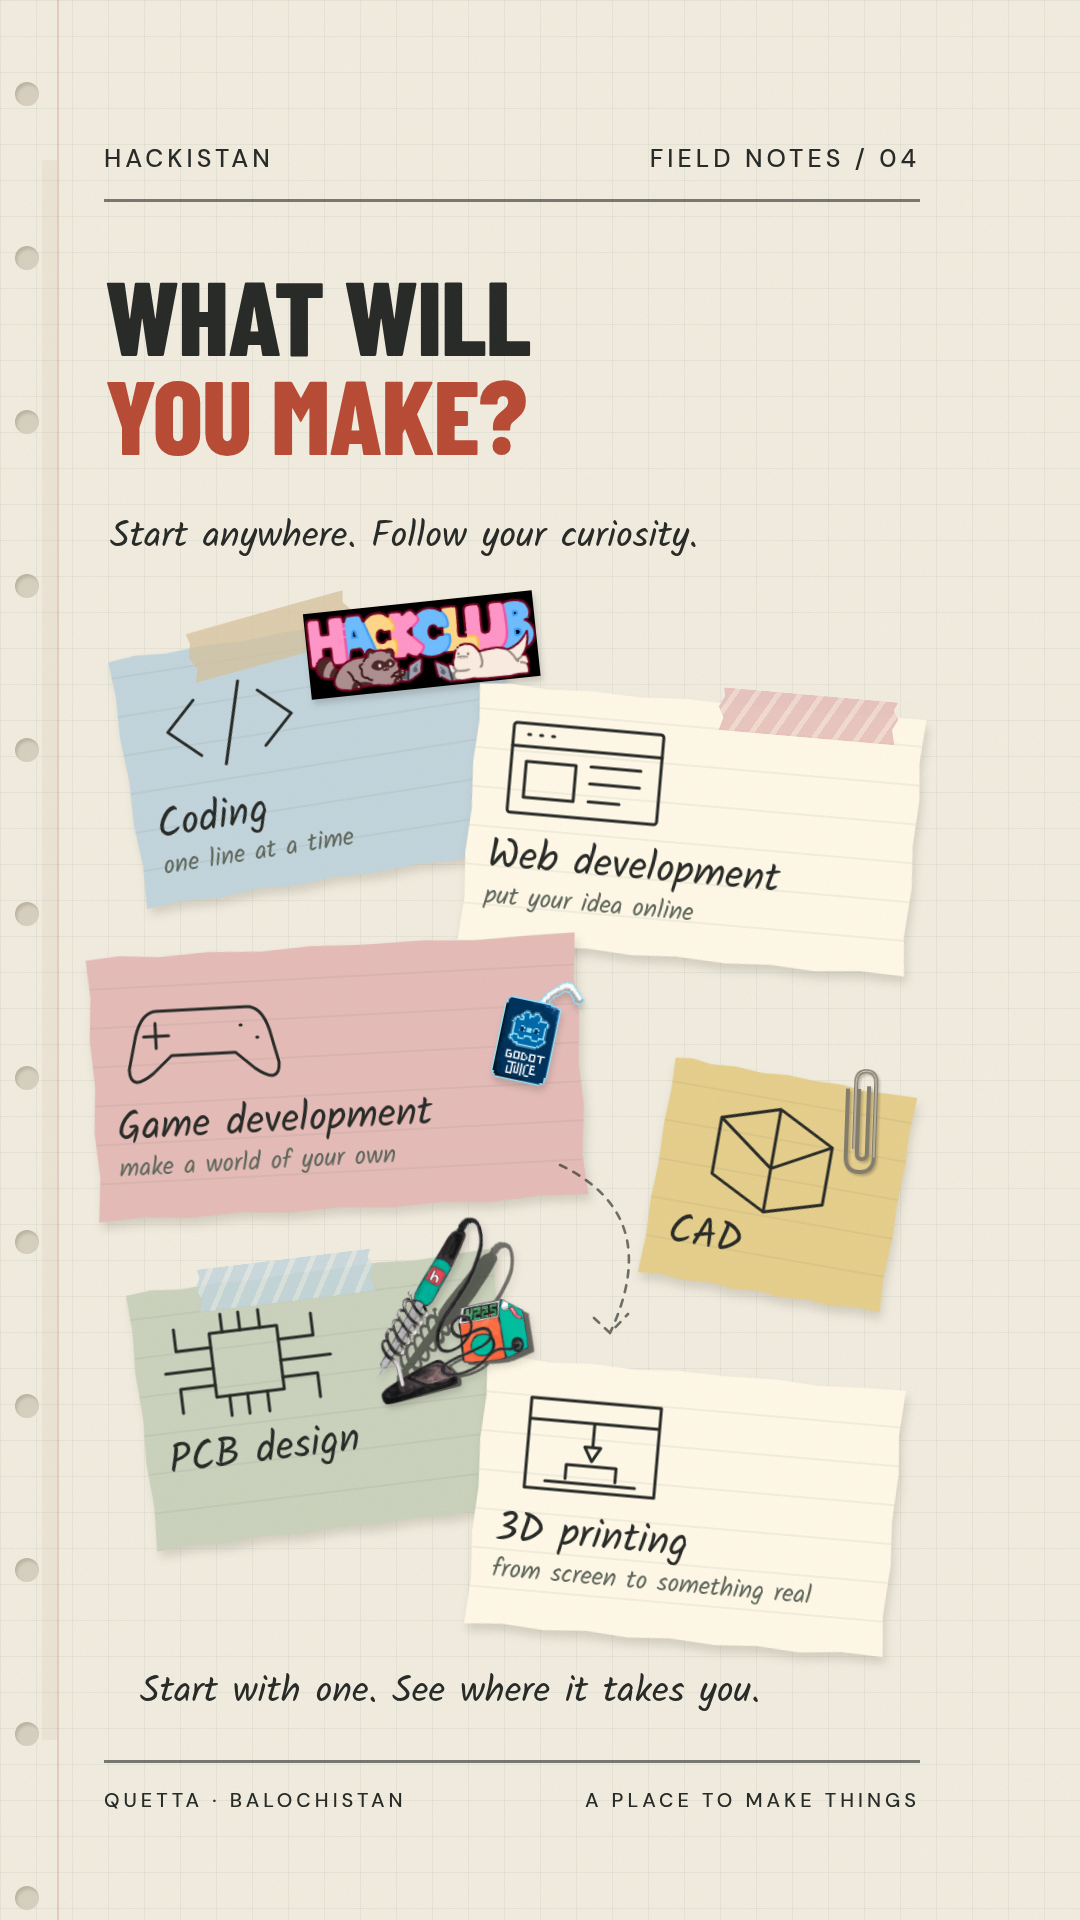
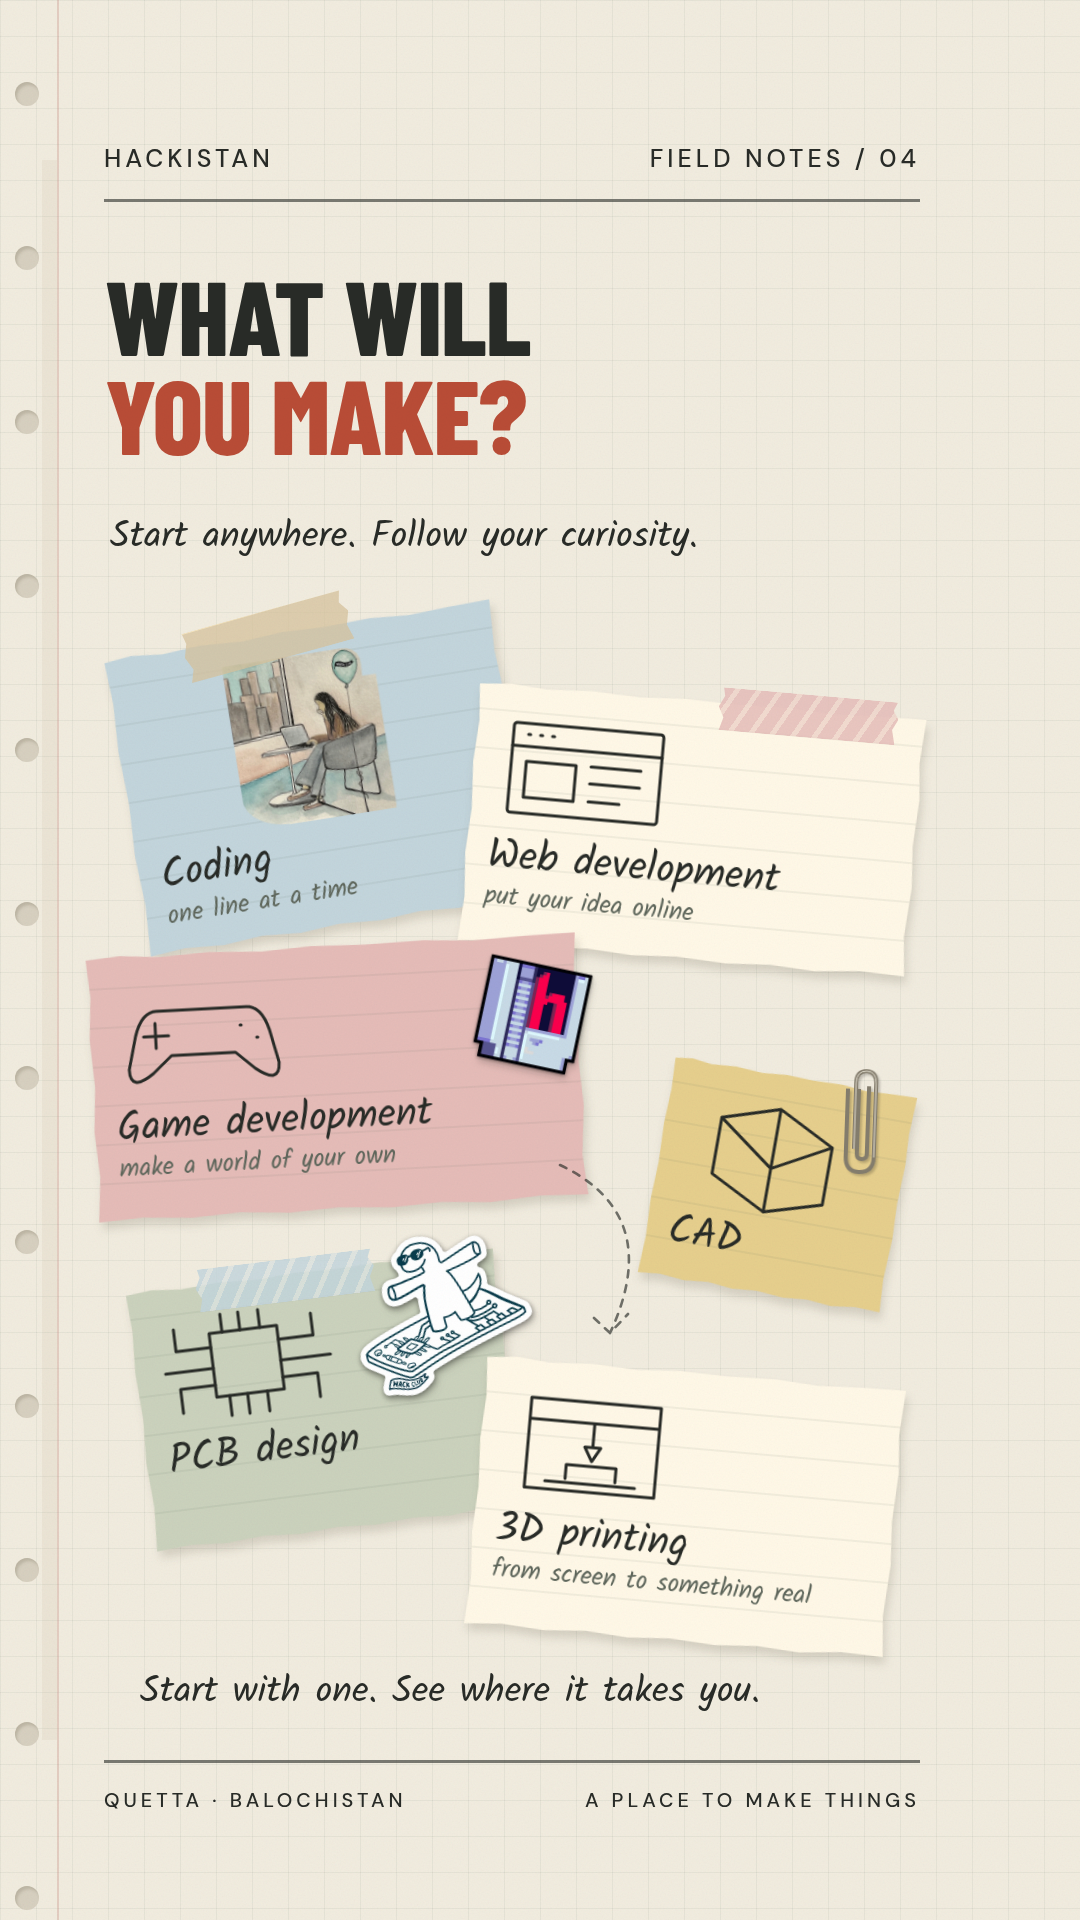
Integrate four uploaded stickers into Phase A storyboard

diff --git a/video/src/scenes.tsx b/video/src/scenes.tsx
@@ -42,21 +42,21 @@ export const Projects=()=> <NotebookPage n={3}>
 <Box x={155} y={1690}><Hand size={35} color={red}>Built by teenagers in Quetta.</Hand></Box>
 </NotebookPage>;
 
-const Idea=({kind,title,note,color=colors.ivory,height=250}:{kind:number;title:string;note?:string;color?:string;height?:number})=><Scrap color={color} pattern="ruled" height={height} style={{padding:23}}><Sketch kind={kind}/><Hand size={40}>{title}</Hand>{note?<Hand size={25} color="#5e665b">{note}</Hand>:null}</Scrap>;
+const Idea=({kind,title,note,color=colors.ivory,height=250,asset}:{kind:number;title:string;note?:string;color?:string;height?:number;asset?:string})=><Scrap color={color} pattern="ruled" height={height} style={{padding:23}}>{asset?<AssetSlot asset={asset} label={title} height={170}/>:<Sketch kind={kind}/>}<Hand size={40}>{title}</Hand>{note?<Hand size={25} color="#5e665b">{note}</Hand>:null}</Scrap>;
 export const Create=()=> <NotebookPage n={4}>
 <Box x={105} y={265}><div className="display" style={{fontSize:105}}>WHAT WILL<br/><span style={{color:red}}>YOU MAKE?</span></div></Box>
 
 <Box x={110} y={515}><Hand size={37}>Start anywhere. Follow your curiosity.</Hand></Box>
 
-<Box x={125} y={628} w={390} rotate={-9}><Idea kind={0} title="Coding" note="one line at a time" color={colors.blue} height={252}/><Tape x={80}/></Box>
-<Box x={307} y={600} w={230} rotate={-6}><Sticker asset="laptops" label="Orpheus and Heidi Laptops" height={90}/></Box>
+<Box x={125} y={628} w={390} rotate={-9}><Idea kind={0} title="Coding" note="one line at a time" color={colors.blue} height={300} asset="codingBalloon"/><Tape x={80}/></Box>
+
 <Box x={468} y={700} w={448} rotate={5}><Idea kind={1} title="Web development" note="put your idea online" height={260}/><Washi x={240} y={-15} color={colors.pink}/></Box>
 <Box x={92} y={945} w={490} rotate={-3}><Idea kind={2} title="Game development" note="make a world of your own" color={colors.pink} height={265}/></Box>
-<Box x={476} y={955} w={110} rotate={12}><Sticker asset="godot" label="Godot Juice" height={150}/></Box>
+<Box x={476} y={955} w={110} rotate={12}><Sticker asset="gameLab" label="Game Lab" height={120}/></Box>
 <Box x={655} y={1075} w={245} rotate={10}><Idea kind={3} title="CAD" color={colors.yellow} height={220}/><Box x={175} y={-25} rotate={-8}><Clip/></Box></Box>
 <Box x={140} y={1270} w={370} rotate={-7}><Idea kind={4} title="PCB design" color={sage} height={260}/><Washi x={70} y={-15} color={colors.blue}/></Box>
 <Box x={475} y={1372} w={420} rotate={5}><Idea kind={5} title="3D printing" note="from screen to something real" height={270}/></Box>
-<Box x={346} y={1220} w={190} rotate={-13}><Sticker asset="solder" label="Soldering" height={180}/></Box>
+<Box x={346} y={1220} w={190} rotate={-13}><Sticker asset="pcbSkate" label="Orpheus Skateboarding PCB" height={180}/></Box>
 
 <Box x={555} y={1160}><PencilRoute w={150} h={195} d="M5 5Q110 55 55 173m-16-15 16 15 18-19"/></Box>
 
@@ -67,7 +67,7 @@ export const Opportunities=()=> <NotebookPage n={5}>
 <Box x={100} y={259} w={825}><div className="display" style={{fontSize:96}}>SMALL STARTS.<br/><span style={{color:red}}>REAL POSSIBILITIES.</span></div></Box><Box x={104} y={460}><Underline width={400}/></Box>
 
 <Box x={102} y={552} w={720} rotate={-4}><Scrap pattern="ruled"><div className="label" style={{color:red,fontSize:23}}>AT HACKISTAN</div><Hand size={56}>Learn by doing.</Hand><div style={{fontSize:36,lineHeight:1.55}}><CheckItem checked>Hands-on workshops</CheckItem><CheckItem checked>Make things together</CheckItem><CheckItem>Your next project</CheckItem></div></Scrap><Tape x={50}/></Box>
-<Box x={742} y={660} w={175} rotate={6}><Sticker asset="journal" label="Journpheus" height={225}/></Box>
+<Box x={742} y={660} w={175} rotate={6}><Sticker asset="construct" label="Construct Orpheus" height={225}/></Box>
 
 
 

diff --git a/video/src/config.ts b/video/src/config.ts
@@ -21,5 +21,9 @@ export const assets: Record<string,string|null> = {
  journal:'assets/stickers/Journpheus.webp',
  laptops:'assets/stickers/Orpheus and Heidi Laptops.webp',
  nest:'assets/stickers/Nest Hatched Smolpheus.webp',
+ codingBalloon:'assets/stickers/Coding with Balloon.webp',
+ gameLab:'assets/stickers/Game Lab.webp',
+ pcbSkate:'assets/stickers/Orpheus Skateboarding PCB.webp',
+ construct:'assets/stickers/Construct Orpheus.webp',
  members:null,
 };

diff --git a/docs/STICKER_CURATION.md b/docs/STICKER_CURATION.md
@@ -1,16 +1,10 @@
-# Sticker curation — Revision 3
+# Sticker curation — Revision 4
 
 ## Acquisition status
 
-**14 selected options: 10 existing user-supplied originals, 4 pending acquisition, 0 newly downloaded files.** The review sheet is explicitly labeled with this status. No catalog screenshots, thumbnails, redrawn stickers or fabricated substitutes were used.
+**14 supplied artworks; no missing candidate files; 0 catalog downloads.** The four previously missing artworks were supplied by the user in the feature branch, present at upload commit `b088776`. Their original files are preserved under `public/assets/stickers/`. The candidate sheet and JSON now include all four images, dimensions, alpha metadata and SHA-256 hashes.
 
-The requested official catalog is https://stickers.hackclub.com/catalog. Fresh sandbox and executor requests returned cloud-proxy HTTP 403 (`CONNECT tunnel failed`) after the custom domain was saved in the environment draft and the user authorized access. The running environment status still reported an enforced policy with no custom host entries. Authorization is recorded; runtime propagation remains the blocker. No access restriction was bypassed.
-
-The publicly accessible [Hack Club StickersV1 README](https://github.com/hackclub/StickersV1/blob/main/README.md) identifies itself as a former official site implementation and documents the public `/api/stickers` endpoint. It points to `hackclub/stickers`, which returned repository-not-found during this inspection. No sticker image URL or artwork license could be verified through that source. No authentication credentials were requested or used.
-
-**Usage/permission note:** the user supplied the current artwork for this storyboard. That does not establish an artwork license for public distribution. Explicit reuse terms for the sticker illustrations have not been verified. Confirm applicable permission with Hack Club/artists before final publication; do not treat an application's source-code license as an artwork license. This flag applies to every candidate below.
-
-New official downloads belong in `public/assets/stickers/catalog/`. That folder currently contains only an explanatory README. Existing files remain in their original curated folders and have not been relabeled as downloads.
+The previous catalog-access blocker no longer prevents this storyboard update because the user supplied the files. These are not represented as agent downloads or independently verified catalog originals. Artwork reuse terms remain unverified; confirm applicable permission before final public release.
 
 ## Candidates
 
@@ -20,29 +14,21 @@ New official downloads belong in `public/assets/stickers/catalog/`. That folder 
 | Godot Juice | [Godot Juice.webp](../public/assets/stickers/Godot%20Juice.webp) · [original user upload](https://github.com/WockoPayaz/hackistan-intro-reel/blob/07f7dec/public/assets/Godot%20Juice.webp) | 03 / 04 · games | user-supplied; catalog verification pending |
 | Boba Drops | [Boba Drops.webp](../public/assets/stickers/Boba%20Drops.webp) · [original user upload](https://github.com/WockoPayaz/hackistan-intro-reel/blob/07f7dec/public/assets/Boba%20Drops.webp) | 03 · website | user-supplied; catalog verification pending |
 | Soldering | [Soldering.webp](../public/assets/stickers/Soldering.webp) · [original user upload](https://github.com/WockoPayaz/hackistan-intro-reel/blob/07f7dec/public/assets/Soldering.webp) | 04 · electronics | user-supplied; catalog verification pending |
-| Orpheus Skateboarding PCB | [Official catalog](https://stickers.hackclub.com/catalog); exact asset URL unverified | 04 · PCB alternative | awaiting catalog access or manual download |
-| Construct Orpheus | [Official catalog](https://stickers.hackclub.com/catalog); exact asset URL unverified | 04 · physical making | awaiting catalog access or manual download |
+| Orpheus Skateboarding PCB | [Orpheus Skateboarding PCB.webp](../public/assets/stickers/Orpheus%20Skateboarding%20PCB.webp) · [user upload](https://github.com/WockoPayaz/hackistan-intro-reel/blob/b088776/public/assets/stickers/Orpheus%20Skateboarding%20PCB.webp) | 04 · PCB design | supplied; integrated |
+| Construct Orpheus | [Construct Orpheus.webp](../public/assets/stickers/Construct%20Orpheus.webp) · [user upload](https://github.com/WockoPayaz/hackistan-intro-reel/blob/b088776/public/assets/stickers/Construct%20Orpheus.webp) | 05 · hands-on workshops | supplied; integrated |
 | Journpheus | [Journpheus.webp](../public/assets/stickers/Journpheus.webp) · [original user upload](https://github.com/WockoPayaz/hackistan-intro-reel/blob/07f7dec/public/assets/Journpheus.webp) | 05 · project notebook | user-supplied; catalog verification pending |
 | Ship | [ship.webp](../public/assets/stickers/ship.webp) · [original user upload](https://github.com/WockoPayaz/hackistan-intro-reel/blob/07f7dec/public/assets/ship.webp) | 05 · share checklist | user-supplied; catalog verification pending |
 | Orphmoji Yippee | [orphmoji yippee.webp](../public/assets/stickers/orphmoji%20yippee.webp) · [original user upload](https://github.com/WockoPayaz/hackistan-intro-reel/blob/07f7dec/public/assets/orphmoji%20yippee.webp) | 06 · familiar character | user-supplied; catalog verification pending |
 | Orpheus Flag | [flag-orpheus-left.png](../public/assets/stickers/flag-orpheus-left.png) · [original user upload](https://github.com/WockoPayaz/hackistan-intro-reel/blob/07f7dec/public/assets/flag-orpheus-left.png) | 02 · flag alternative | user-supplied; catalog verification pending |
-| Game Lab | [Official catalog](https://stickers.hackclub.com/catalog); exact asset URL unverified | 04 · game alternative | awaiting catalog access or manual download |
-| Coding with Balloon | [Official catalog](https://stickers.hackclub.com/catalog); exact asset URL unverified | 04 · coding alternative | awaiting catalog access or manual download |
+| Game Lab | [Game Lab.webp](../public/assets/stickers/Game%20Lab.webp) · [user upload](https://github.com/WockoPayaz/hackistan-intro-reel/blob/b088776/public/assets/stickers/Game%20Lab.webp) | 04 · game development | supplied; integrated |
+| Coding with Balloon | [Coding with Balloon.webp](../public/assets/stickers/Coding%20with%20Balloon.webp) · [user upload](https://github.com/WockoPayaz/hackistan-intro-reel/blob/b088776/public/assets/stickers/Coding%20with%20Balloon.webp) | 04 · coding | supplied; integrated |
 | Nest Hatched Smolpheus | [Nest Hatched Smolpheus.webp](../public/assets/stickers/Nest%20Hatched%20Smolpheus.webp) · [original user upload](https://github.com/WockoPayaz/hackistan-intro-reel/blob/07f7dec/public/assets/Nest%20Hatched%20Smolpheus.webp) | 06 · optional beginner motif | user-supplied; catalog verification pending |
 | Pathfinder Orpheus | [Pathfinder Orpheus.png](../public/assets/stickers/Pathfinder%20Orpheus.png) · [original user upload](https://github.com/WockoPayaz/hackistan-intro-reel/blob/07f7dec/public/assets/Pathfinder%20Orpheus.png) | 05 · optional exploration motif | user-supplied; catalog verification pending |
 
 ## Selection discipline
 
-Only relevant supplied artwork is placed: Boba with its website, Godot at the game/photo border, the laptops on the coding note, soldering at the PCB note, Journpheus holding the workshop checklist edge, Ship next to save/share tasks, and Yippee touching the final project callback. The official Hack Club flag appears once, in scene 2. Alternatives on this sheet are not automatically added to the pages.
+Scene 4 uses Coding with Balloon within the coding paper, Game Lab on the game note edge, and Skateboarding PCB on the electronics note. Scene 5 uses Construct Orpheus beside the hands-on workshop checklist. These replace the laptops, scene-4 Godot, Soldering and Journpheus placements, keeping sticker density controlled. Godot remains with the real Jame Gam project in scene 3. Scenes 1, 2, 3 and 6 retain their prior layouts.
 
-The selected images preserve original colors, proportions and transparency. Shadows and rotation are composition styles; no source images were modified. Jame Gam's low-resolution screenshot is a separate project-media limitation.
-
-## Once catalog access applies
-
-1. Load the catalog or its documented public API once; inspect the selected entries and their usage terms.
-2. Resolve full original download URLs for the short list only. Request any necessary CDN domains through settings; never bypass restrictions.
-3. Save usable original PNG/WebP/SVG files under `public/assets/stickers/catalog/`, retaining attribution and per-file source URLs, dimensions and hashes.
-4. Mark unavailable originals for manual download; do not use catalog screenshots or thumbnail upscales.
-5. Regenerate the candidate sheet and compare replacement artwork before changing scene placements.
+All four supplied images use contain sizing without cropping, recoloring, redrawing or background removal. Coding with Balloon includes a visible rectangular artifact at the upper right of the supplied image; it is preserved, not retouched. No project screenshots are fabricated or covered.
 
 [Candidate sheet](../output/stickers/candidate-sheet.png) · [Machine-readable provenance](../output/stickers/candidates.json)

diff --git a/docs/ASSETS.md b/docs/ASSETS.md
@@ -12,7 +12,7 @@ The user-uploaded assets on main and the feature branch were inspected. All 19 o
 | Orphmoji Yippee | Supplied, used | stickers/orphmoji yippee.webp / orpheus |
 | Boba Drops sticker | Supplied, used | stickers/Boba Drops.webp / bobaSticker |
 | Godot Juice | Supplied, used | stickers/Godot Juice.webp / godot |
-| Soldering | Supplied, used | stickers/Soldering.webp / solder |
+| Soldering | Supplied, available alternative | stickers/Soldering.webp / solder |
 | Ship | Supplied, used | stickers/ship.webp / ship |
 | Member workshop photograph | Not supplied; optional, omitted | projects/ / members |
 | Scrapbook style references | Three supplied and studied for revision 2 | references/01-colorful-scrapbook.jpg, 02-vintage-layered-journal.jpg, 03-creative-collage.jpg |
@@ -28,6 +28,15 @@ Jame Gam is low resolution and is displayed with its original framing. A larger 
 
 Mountain silhouettes, notebook sketches, stationery and grain are original deterministic decorations. The Quetta-to-community dotted line is conceptual, not a geographic map.
 
-## Revision 3 curation
+## Revision 4 curation
 
-See [STICKER_CURATION.md](STICKER_CURATION.md) and `output/stickers/candidates.json` for a 14-option selection, source/provenance metadata, four acquisition gaps and usage-rights notes. No new catalog files have been downloaded; the folder `stickers/catalog/` is reserved pending cloud network application.
+All four previous gaps are resolved with user uploads at `b088776`. See [STICKER_CURATION.md](STICKER_CURATION.md) and `output/stickers/candidates.json` for all 14 supplied options and source metadata.
+
+| Supplied artwork | Manifest key | Placement |
+|---|---|---|
+| Coding with Balloon.webp | codingBalloon | Scene 4 coding note |
+| Game Lab.webp | gameLab | Scene 4 game note |
+| Orpheus Skateboarding PCB.webp | pcbSkate | Scene 4 PCB note |
+| Construct Orpheus.webp | construct | Scene 5 workshop checklist |
+
+Original files remain unchanged. These are user uploads, not catalog downloads. Usage terms remain unverified.

diff --git a/docs/VALIDATION.md b/docs/VALIDATION.md
@@ -35,3 +35,12 @@ Reproduce from `video/`: `npm ci`, `npm run typecheck`, `npm run storyboards`. T
 - Catalog acquisition remains blocked by cloud-proxy 403 despite saved domain and user authorization. Running policy has not applied the domain. `STICKER_CURATION.md` records exact limits and usage-rights uncertainty.
 - Candidate sheet explicitly distinguishes 10 existing supplied originals, 4 pending artwork slots, and zero new downloads. This is not a claimed successful catalog acquisition.
 - Original image assets remain unchanged. No animation, MP4 or main-branch merge.
+
+## Revision 4 — uploaded sticker integration
+
+- Fast-forwarded the feature branch to user upload commit `b088776`; all four missing files are present.
+- TypeScript passed; all six Chromium PNG renders passed at 1080 × 1920. Contact sheet regenerated at 1200 × 1510.
+- Visually inspected updated scenes 4 and 5 for readable labels, clipping, image loading and relevant sticker placement. All four uploaded artworks are integrated without source-file changes.
+- Candidate sheet regenerated with all 14 supplied images, replacing the four pending slots; metadata includes dimensions and SHA-256 hashes.
+- Scene 4 uses Coding with Balloon, Game Lab and Skateboarding PCB; scene 5 uses Construct Orpheus. Other scene layouts are unchanged.
+- No animation, MP4, or main-branch merge.

diff --git a/docs/DECORATION_AUDIT.md b/docs/DECORATION_AUDIT.md
@@ -16,3 +16,7 @@ Graph paper, grain, punched margin and page folio establish the same notebook. R
 | 6 — clean closing | Taped logo with one backing sheet, bold message, plain handwritten invitation, red CTA and link-in-bio. A single taped Jame Gam photo and familiar Orpheus form one callback cluster. | Removed location tag, floating star, yellow invitation scrap, pink CTA backing, second project photo and filler “Your page is next” note. |
 
 Density: minimal opening → moderate identity → rich project evidence → energetic ideas → organized plans → clean closing. No Phase B timing or animation has been added.
+
+## Revision 4 placement update
+
+The four new user uploads replace selected previous placements: Coding with Balloon sits within the coding paper instead of the laptops; Game Lab replaces the scene-4 Godot sticker; Skateboarding PCB replaces Soldering at the electronics note; Construct replaces Journpheus at the workshop checklist. Scene 3 retains Godot beside the actual game. Sticker count remains controlled, and all six topic labels stay visible.

diff --git a/README.md b/README.md
@@ -1,10 +1,10 @@
 # Hackistan — scrapbook reel
 
-**Phase A, revision 3: awaiting storyboard approval.** Six static designs, not the final animated video. All work is on `feature/hackistan-intro-reel`; nothing is merged into main.
+**Phase A, revision 4: awaiting storyboard approval.** Six static designs, not the final animated video. All work is on `feature/hackistan-intro-reel`; nothing is merged into main.
 
 ## Review in Chrome
 
-**Rendered and inspected:** the revised six PNGs and contact sheet are available below. This pass removes repeated edge tabs and filler, anchors tape to objects, connects stickers to specific content, and gives the opening and closing more breathing room.
+**Rendered and inspected:** the revised six PNGs and contact sheet are available below. This pass integrates all four newly supplied stickers into scenes 4 and 5 while preserving the other four layouts.
 
 Open [the contact sheet](output/storyboards/contact-sheet.png), then tap a full-size page:
 

diff --git a/public/assets/stickers/catalog/README.md b/public/assets/stickers/catalog/README.md
@@ -1,5 +1,3 @@
 # Official catalog downloads
 
-Reserved for original artwork downloaded directly from the official catalog after access succeeds. **No new images have been downloaded yet.** Cloud-proxy requests to https://stickers.hackclub.com/catalog returned HTTP 403 even after the domain was saved in the environment draft. The running network policy has not applied that custom domain.
-
-Existing user-supplied assets remain in the parent directory, with their original bytes and names. They are not presented as newly fetched catalog files. See `docs/STICKER_CURATION.md` and `output/stickers/candidates.json` for provenance and the short list.
+No agent-downloaded artwork is stored here. All 14 candidates, including the four previously missing stickers supplied at commit `b088776`, are available in the parent directory. See `docs/STICKER_CURATION.md` for provenance and rights notes.

diff --git a/output/storyboards/README.md b/output/storyboards/README.md
@@ -1,4 +1,4 @@
-# Hackistan · Phase A · Revision 3
+# Hackistan · Phase A · Revision 4
 
 Refined for intentional composition: removed filler and repeated tabs, anchored tape to objects, tied stickers to their subjects, and simplified the opening and closing.
 
